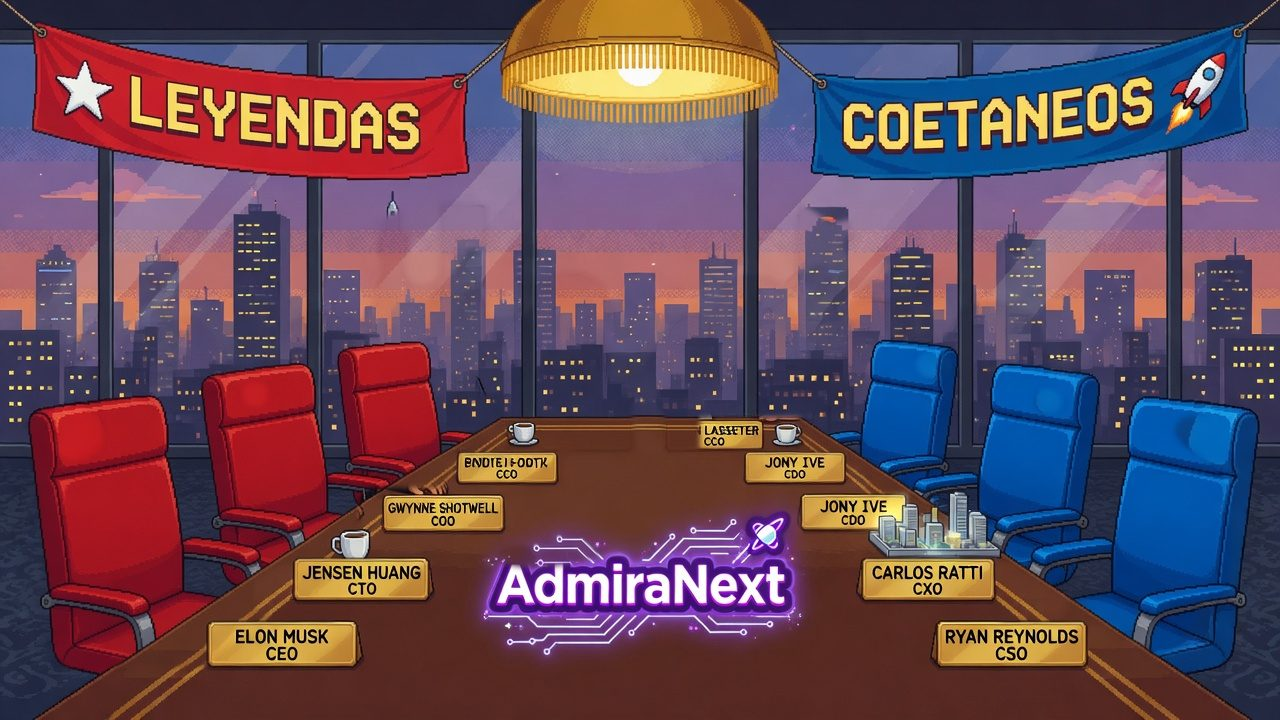
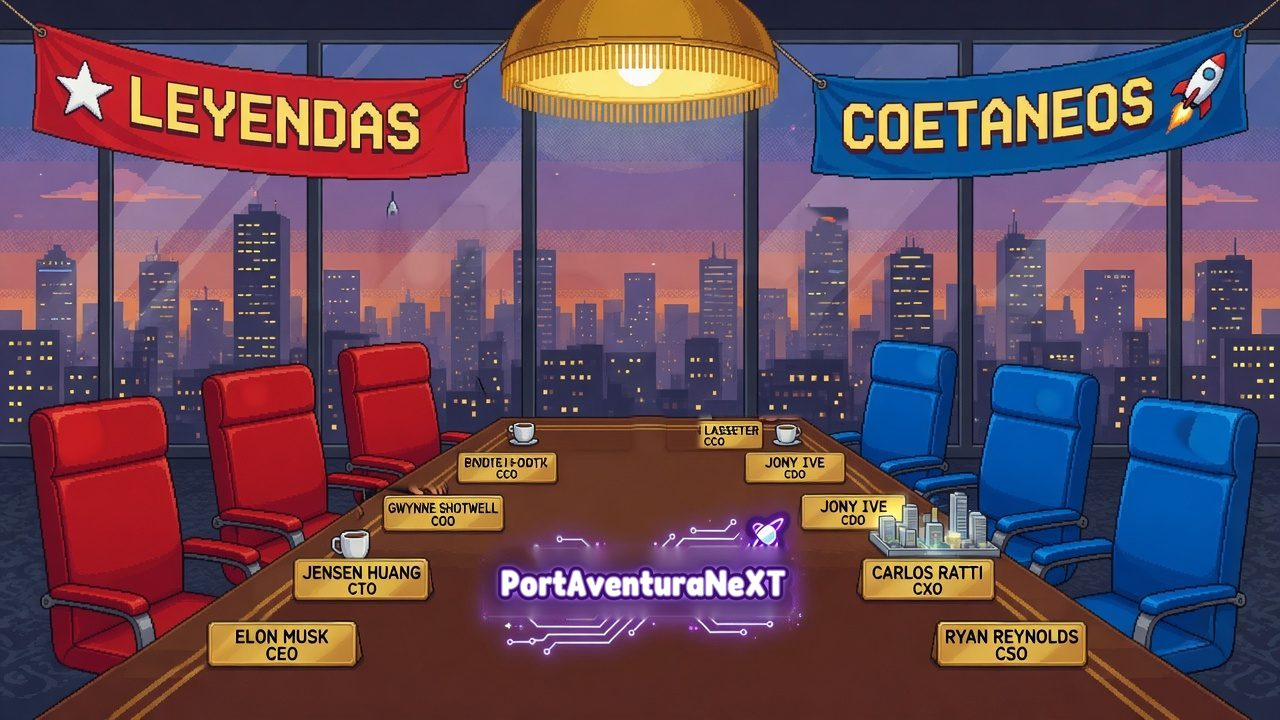
Mesa de Coetáneos: neón «PortAventuraNeXT» horneado en el arte (home, Conversación, /conversacion, escena0, sillas vacías) (t560u)

Changed region(s): [[0.375, 0.7333, 0.625, 0.8861]]

diff --git a/index.html b/index.html
@@ -4600,10 +4600,10 @@ body.rail-open{overflow:hidden}
 <script defer src="/assets/cli-ayuda.js?v=20261011-5707-selector"></script>
 <link rel="stylesheet" href="/assets/webcam.css?v=20261014-5863">
 <script defer src="/assets/webcam.js?v=20261014-5863"></script>
-<script defer src="assets/council-presencia.js?v=20261114-mesa"></script>
+<script defer src="assets/council-presencia.js?v=20261114-pan-logo"></script>
 <script defer src="assets/consejo-cabecera.js?v=20261114-mesa"></script>
 <script defer src="assets/consejo-demo.js?v=20261114-logo"></script>
-<script defer src="app.flt-100529.js?v=20261114-consejero-mesa"></script>
+<script defer src="app.flt-100529.js?v=20261114-pan-logo"></script>
 <script defer src="assets/consejero-mesa.js?v=20261114-consejero-mesa"></script>
 <script defer src="council-preview.js?v=20261114-r180-misiones-off"></script>
 <script defer src="council-composer.js?v=20261114-r181-conversacion"></script>

diff --git a/escena0/escena0.js b/escena0/escena0.js
@@ -1,7 +1,7 @@
 import {
   parseMesa, MESAS, ROLES, IMG, ANCLA, TEMA_DEFECTO, promptDe, canalVacio,
   marcarPresente, publicState, reservar, decir, siguienteSpeaker,
-} from '/escena0-lib.mjs';
+} from '/escena0-lib.mjs?v=20261114-pan-logo';
 import {
   parseGuion, parseCabecera, CABECERA_POS, textoTurno, bolsasGuion, promptGuion, mesaDeGuion, msLectura, anclaGuion,
   parseLang, lineasTurno, ROTULOS_EN, anchoGlobo, cajaGlobo, LOGO_DEMO,

diff --git a/app.flt-100529.js b/app.flt-100529.js
@@ -261,7 +261,7 @@
     let currentGen = "leyendas";
     let speakerTurnMap = {};
     let activeLegendPersona = "Steve Jobs";
-    const COUNCIL_IMAGE_VERSION = "20261114-mesa";
+    const COUNCIL_IMAGE_VERSION = "20261114-pan-logo";
     const LEGEND_MANDATES = {
         "Steve Jobs": {
             short: "foco producto",

diff --git a/app.js b/app.js
@@ -261,7 +261,7 @@
     let currentGen = "leyendas";
     let speakerTurnMap = {};
     let activeLegendPersona = "Steve Jobs";
-    const COUNCIL_IMAGE_VERSION = "20261114-mesa";
+    const COUNCIL_IMAGE_VERSION = "20261114-pan-logo";
     const LEGEND_MANDATES = {
         "Steve Jobs": {
             short: "foco producto",

diff --git a/escena0/index.html b/escena0/index.html
@@ -43,6 +43,6 @@
   </div>
   <div id="sello"></div>
   <script src="/consejeros-voces.js?v=20261112-sin-acople"></script>
-  <script type="module" src="/escena0/escena0.js?v=20261114-gartnertresb"></script>
+  <script type="module" src="/escena0/escena0.js?v=20261114-pan-logo"></script>
 </body>
 </html>

diff --git a/assets/council-presencia.js b/assets/council-presencia.js
@@ -5,7 +5,7 @@
 (function (root) {
   'use strict';
   var KEY = 'admira:consejo-presencia';
-  var ASSET_V = '20261114-mesa';
+  var ASSET_V = '20261114-pan-logo';
   var GENS = {
     leyendas: [
       ['Steve Jobs', 'CEO', 'racional', ['jobs', 'steve jobs', 'steve-jobs']],

diff --git a/tools/logo-mesa-portaventuranext.py b/tools/logo-mesa-portaventuranext.py
@@ -1,6 +1,8 @@
+# Uso: python3 tools/logo-mesa-portaventuranext.py assets/council-coetaneos.jpg   (o assets/consejo-vacio/coetaneos.jpg)
+# Genera el parche «PortAventuraNeXT» (468,534)-(806,630) sobre el arte ORIGINAL con «AdmiraNext». Desde r193 el parche va horneado en ambos jpg.
 import cv2, numpy as np
 from PIL import Image, ImageDraw, ImageFont, ImageFilter
-art = Image.open('/workspace/demo-consejo-repo/assets/council-coetaneos.jpg').convert('RGB')
+art = Image.open(__import__('sys').argv[1]).convert('RGB')
 W, H = art.size
 X0, Y0, X1, Y1 = 468, 534, 806, 630           # parche (px del arte 1280x720)
 crop = np.array(art.crop((X0, Y0, X1, Y1)))
